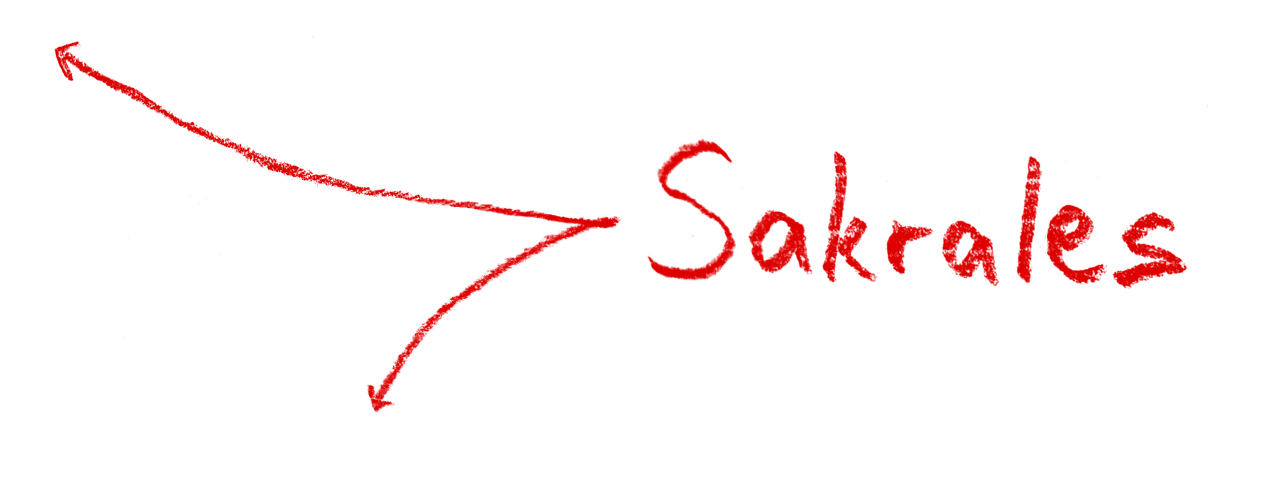
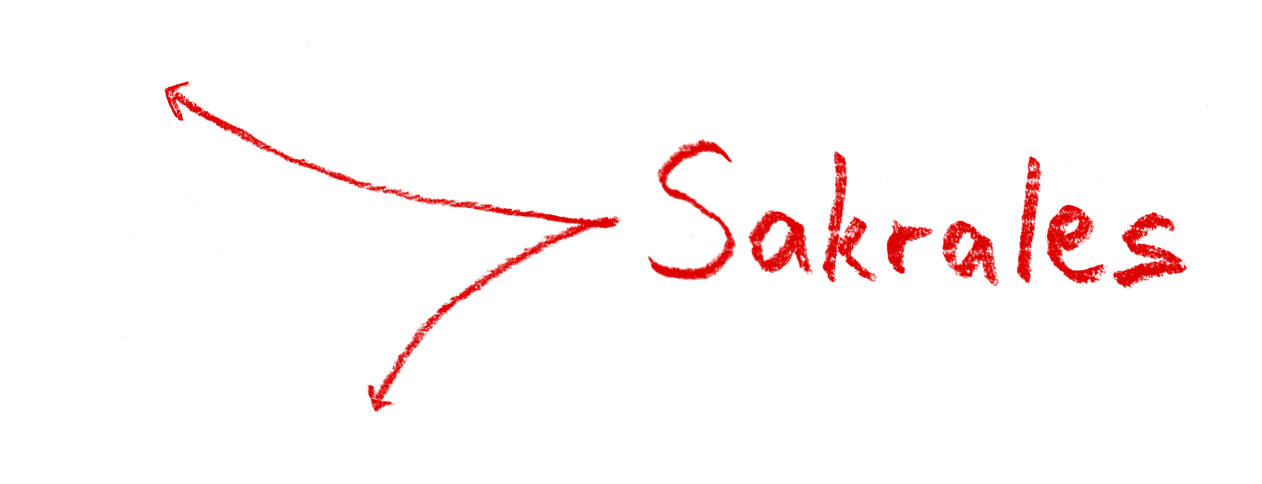
updated labels after the projection change

Changed region(s): [[0.0309, 0.093, 0.3399, 0.4339]]

diff --git a/src/Annotations.svelte b/src/Annotations.svelte
@@ -13,7 +13,7 @@
   import { Sprite, Texture } from "pixi.js";
 
   // make em small mogrify -geometry 1000x *.png
-  
+
   const baseUrl = "annotations/";
   const sprites = [];
   const annotationsMap = new Map();
@@ -21,7 +21,7 @@
   let subsription;
   let factor = 0.1;
   const visibleScaleCutoff = 6;
-  const sizeTable = { 1: 1.5, 2: 1.1, 3: 0.8 };
+  const sizeTable = { 1: 1.7, 2: 1.5, 3: 1.2 };
   const size = scaleLog()
     .range([factor, factor / 5])
     .domain([1, 20])
@@ -39,7 +39,7 @@
     }
     console.log(factor);
   }
-  
+
   $: visible = $lastTransformed.k < visibleScaleCutoff;
 
   $: {
@@ -54,7 +54,7 @@
     const { annotations } = await json(baseUrl + "annotations.json");
     for (const annotation of annotations) {
       //   console.log(annotation);
-      const sprite = Sprite.from(baseUrl + "small/" + annotation.name + ".png");
+      const sprite = Sprite.from(baseUrl + "big/" + annotation.name + ".png");
       sprite.scale.x = sprite.scale.y = sizeTable[annotation.size] * factor;
       // sprite.on("added", (s) => {
       //   console.log(s.width);
